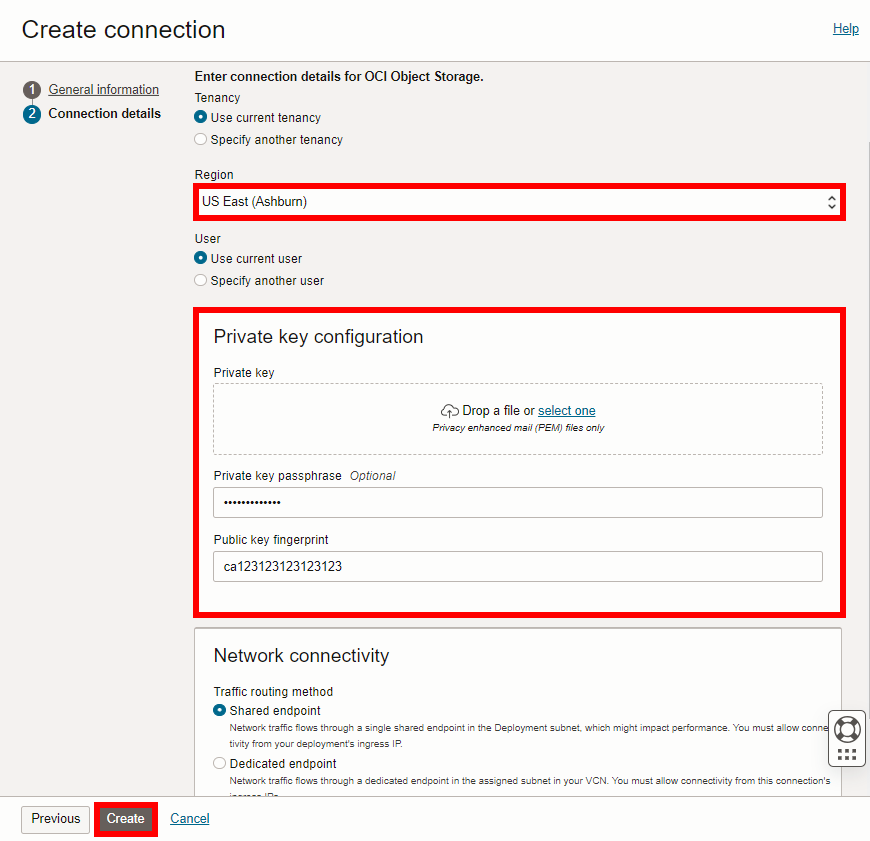
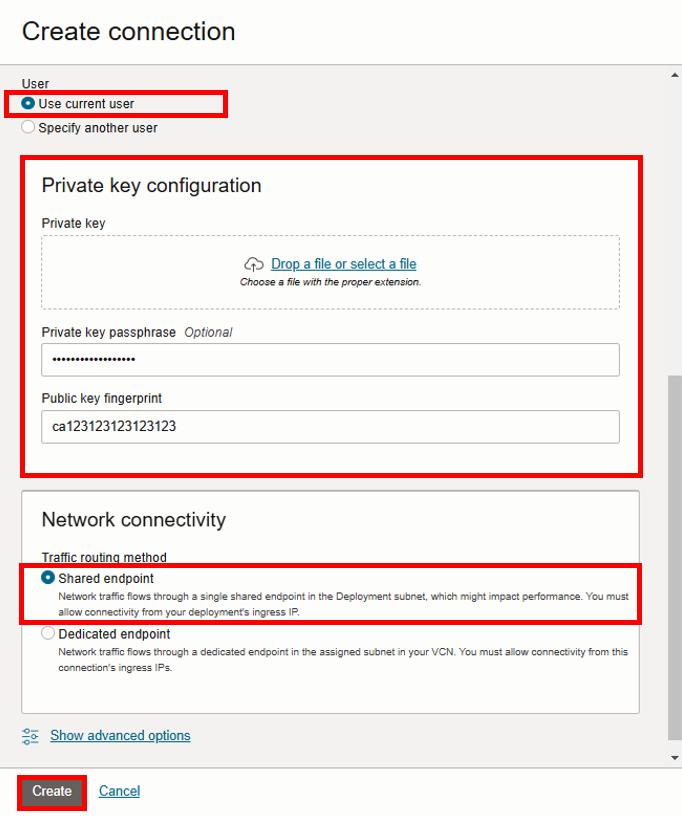
workshop #10092 & #11656: revise screenshots and instructions (#227)
* workshop 11092: edit screenshots and QA report

* workshop 11092: fix typo

* 4841: typos

* 4861: update screenshots + typo + quarterly QA report

* #4861: additional changes + screenshot updates

* #4861: update screenshots + typo

* #11041: lab updates

* workshop #4841 and #11041: update screenshots, typos

update screenshots, typos

* workshop #11091: screenshot updates

* workshop #11091, #11092, #11041, #4841, #4861

screenshot updates

* workshop #2920, #4841, #4861, #11041, #11091, #11092

update screenshots, update instructions

* workshop #2920, #11091 & #11092

edit tenancy instructions

* workshop #2920: update instructions

* workshop #2920: update typo in instructions

* workshop #2920: add screenshots on ggs-common

* workshop #2920 for cloudworld: resize screenshots

* workshop #2920

update title and typo

* workshop #2920: fix instructions

* HOL session #20: new lab development

* HOL session oracle-livelabs#20: new lab development

* workshop #11293: edit lab development

* workshop #11091: revise instructions

* workshop #11370: clean up workshop files

* workshop #2920, #4841, $4861, #11041, #11091, #11092: update text and screenshots

update text from "Shared Infrastructure" to "Serverless"

* workshop #2920, #4841, 34861, #11041, #11091, #11092: update screenshots

* workshop #11293: edit instructions and add screenshots

* workshop #11293 & #2920: update instructions and screenshots

* #11293: update instructions
[…]

Changed region(s): [[0.0, 0.0, 1.0, 1.0], [0.9853, 0.0613, 1.0, 0.0919], [0.9545, 0.0306, 0.9853, 0.0613]]

diff --git a/atp-objectstorage/create/create.md b/atp-objectstorage/create/create.md
@@ -89,15 +89,15 @@ Follow the steps below to create a connection for the source Oracle Autonomous T
 
     ![Connections page](https://oracle-livelabs.github.io/goldengate/ggs-common/create/images/02-03-create-connection.png " ")
 
-4.  The Create connection panel consists of two pages. On the General information page, for Name, enter **SourceATP** and optionally, a description.
+4.  The Create connection panel appears. For Name, enter **SourceATP** and optionally, a description.
 
-5.  From the Type dropdown, select **Oracle Autonomous Database**.
+5. For **Compartment**, select the compartment in which to create this connection.
 
-6.  Click **Next**.
+6.  From the Type dropdown, select **Oracle Autonomous Database**.
+
+7. For Database details, select **Select database**.
 
     ![Create connections page](https://oracle-livelabs.github.io/goldengate/ggs-common/create/images/02-06-create-connection-general-info.png)
-
-7. On the Connection details page, under Database details, select **Select database**.
 
 8.  For **Database in &lt;compartment-name&gt;**, select **SourceATP-&lt;numbers&gt;** from the dropdown. 
 
@@ -109,7 +109,7 @@ Follow the steps below to create a connection for the source Oracle Autonomous T
 
 12. Click **Create**.
 
-    ![Source Database details](https://oracle-livelabs.github.io/goldengate/ggs-common/create/images/02-13-create-connection-gg-details.png)
+    ![Source Database details](https://oracle-livelabs.github.io/goldengate/ggs-common/create/images/02-11-create-connection-gg-details.png)
 
     The connection becomes Active after a few minutes.
 
@@ -175,15 +175,17 @@ You can leave the source database SQL window open for use in a later lab.
 
 2.  Click **Connections** and then **Create Connection**.
 
-3.  In the Create Connection panel, enter **TargetObjStore** for Name.
+3.  The Create connection panel appears. For Name, enter **TargetObjStore**.
 
-4.  From the Type dropdown, select **OCI Object Storage**.
+4. For **Compartment**, select the compartment in which to create this connection.
 
-5.  Click **Next**.
-
-    ![Create connection details](images/05-05-create-connection.png " ")
+5.  From the Type dropdown, select **OCI Object Storage**.
 
 6.  From the Region dropdown, select your region.
+
+    ![GoldenGate in the Oracle Cloud console navigation menu](./images/05-06-objstorageconnection.png " ")
+
+7. For User, select **User current user**.
 
 7.  For Private key configuration, drag-and-drop the private key (.pem) or select it from your local machine.
 
@@ -235,17 +237,15 @@ Create a GoldenGate connection if your Big Data deployment doesn't have a public
 
     ![Create connection](./images/07-01-create-connection.png " ")
 
-2.  In the Create connection panel, enter a **Name** and optionally, a description.
+2.  The Create connection panel appears. Enter a **Name** and optionally, a description.
 
 3.  For **Compartment**, select the compartment in which to create this connection.
 
 4.  From the **Type** dropdown, under Generic, select **GoldenGate**.
 
-5.  Click **Next**.
+5.  For **GoldenGate deployment**, select **Select GoldenGate deployment**.
 
-    ![Create connection details](./images/07-05-create-connection.png " ")
-
-6.  For Deployment, select the Big Data deployment from the dropdown.
+6. For **Deployment in &lt;compartment-name&gt;**, select **OBJDeployment** from the dropdown. 
 
 7.  For Username, enter `oggadmin`.
 
@@ -277,4 +277,4 @@ Create a GoldenGate connection if your Big Data deployment doesn't have a public
 ## Acknowledgements
 * **Author** - Jenny Chan, Consulting User Assistance Developer, Database User Assistance
 * **Contributors** -  Denis Gray, Database Product Management; Katherine Wardhana, User Assistance Developer
-* **Last Updated By/Date** - Katherine Wardhana, June 2024
+* **Last Updated By/Date** - Katherine Wardhana, February 2025

diff --git a/ggs-common/building-blocks/tasks/create/03-create-target-connection.md b/ggs-common/building-blocks/tasks/create/03-create-target-connection.md
@@ -12,13 +12,13 @@ Follow the steps below to connect the target Autonomous Data Warehouse \(ADW\) i
 
     ![Create Connection in GoldenGate menu](https://oracle-livelabs.github.io/goldengate/ggs-common/create/images/04-02-connections.png " ")
 
-3.  The Create connection panel consists of two pages. On the General information page, for Name, enter **TargetADW** and optionally, a description.
+3.  The Create connection panel appears. For Name, enter **TargetADW** and optionally, a description.
 
 4.  From the **Compartment** dropdown, select a compartment.
 
 5.  From the a Type dropdown, select **Oracle Autonomous Database**.
 
-6.  From the Database details dropdown, select **Select database**.
+6.  For Database details, select **Select database**.
 
     ![Source Database details](https://oracle-livelabs.github.io/goldengate/ggs-common/create/images/04-06-create-connec-general-info.png " ")
 

diff --git a/ggs-common/building-blocks/tasks/create/01-create-source-connection.md b/ggs-common/building-blocks/tasks/create/01-create-source-connection.md
@@ -12,13 +12,13 @@
 
     ![Connections page](https://oracle-livelabs.github.io/goldengate/ggs-common/create/images/02-03-create-connection.png " ")
 
-3.  The Create connection panel consists of two pages. On the General information page, for Name, enter **SourceATP** and optionally, a description.
+3.  The Create connection panel appears. For Name, enter **SourceATP** and optionally, a description.
 
 4.  From the Compartment dropdown, select **&lt;USER&gt;-COMPARTMENT**.
 
 5.  From the a Type dropdown, select **Oracle Autonomous Database**.
 
-6. From the Database details dropdown, select **Select database**.
+6. For Database details, select **Select database**.
 
     ![Source Database details](https://oracle-livelabs.github.io/goldengate/ggs-common/create/images/02-06-create-connection-general-info.png)
 

diff --git a/goldengate-microservices23ai/east-replicate/east-replicate.md b/goldengate-microservices23ai/east-replicate/east-replicate.md
@@ -116,7 +116,7 @@ A Path Connection creates Credentials for the East Distribution Service to conne
 
     ![Path Connection list](./images/03-04-pc-list.png " ")
 
-## Task 4: Add a Distribution Path to West deployment
+## Task 4: Add a Distribution Path on East Deployment to Send Trails to West Deployment
 
 1. On the top navigation menu, click **Distribution Service**, and then click **Add Distribution Path** (plus icon). 
 
